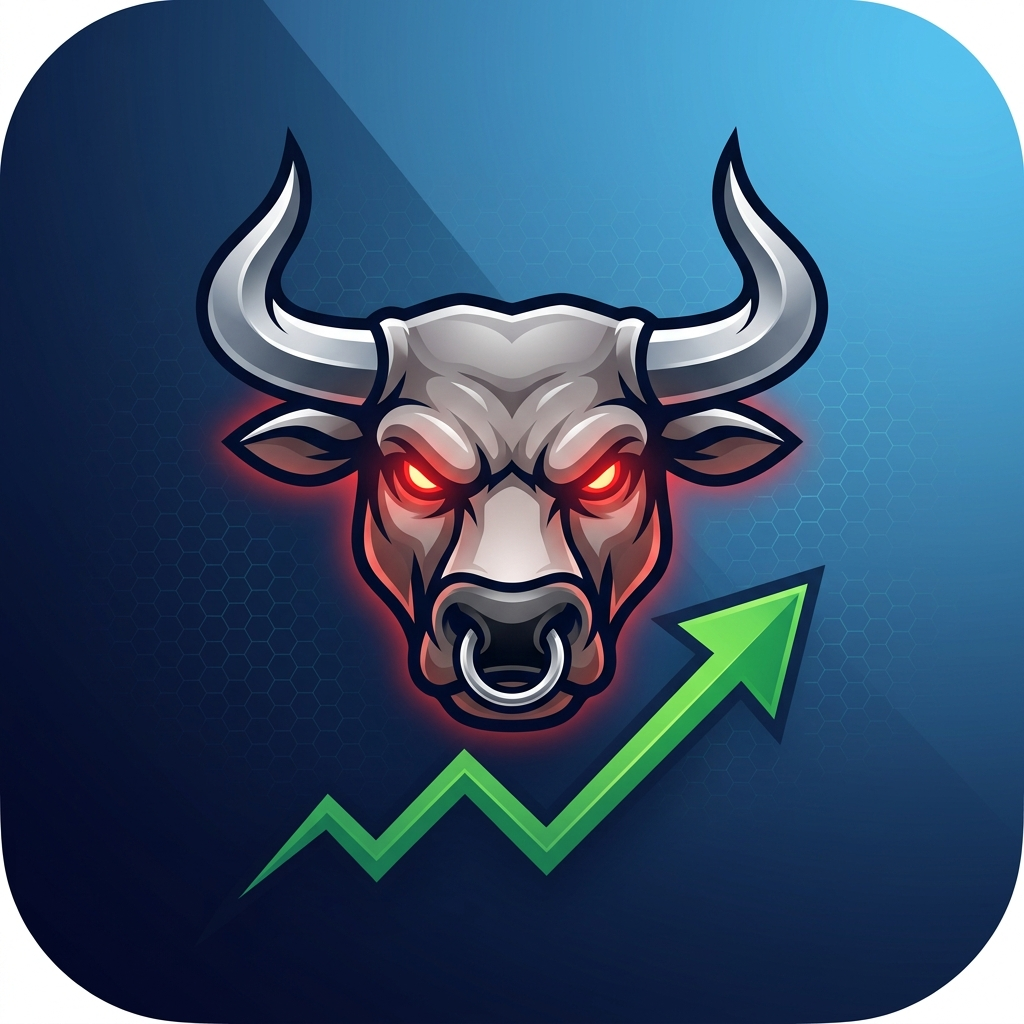
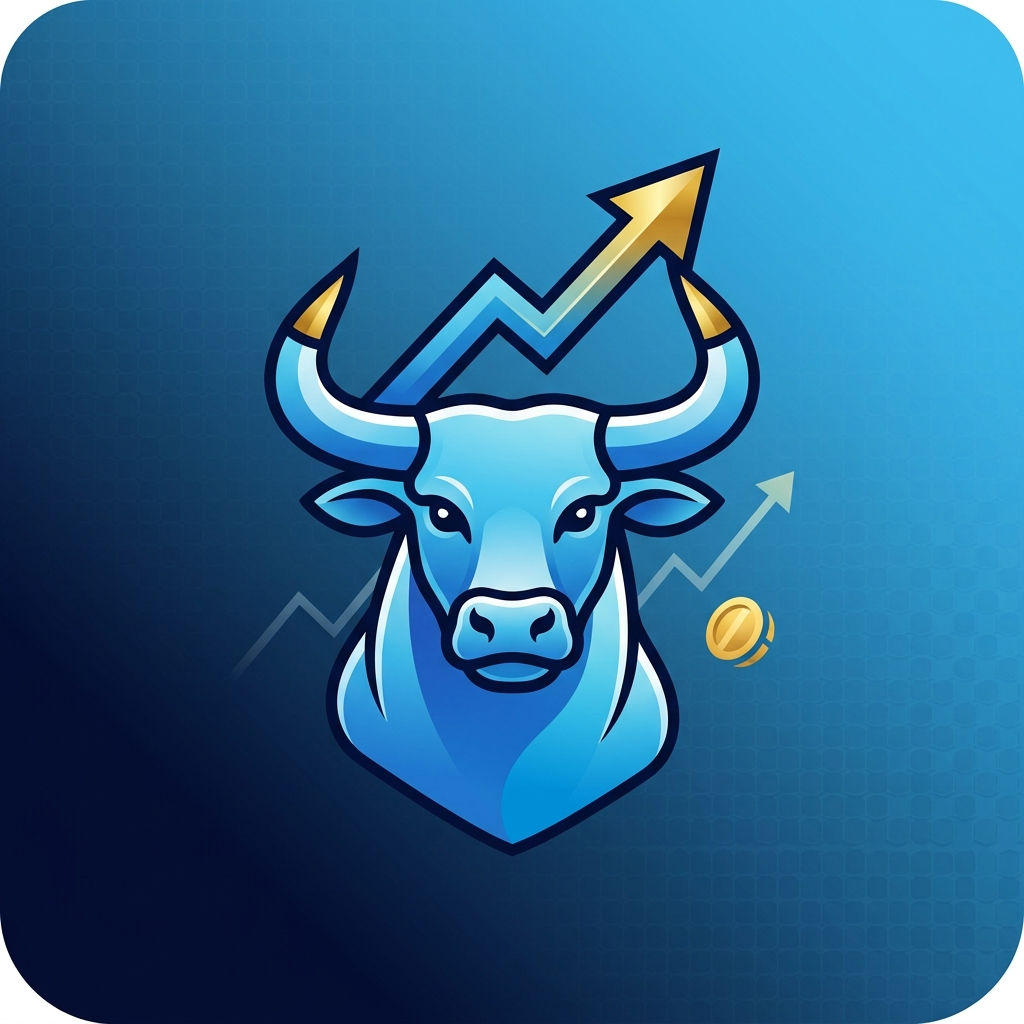
auto-commit for 58ef66fc-9dd8-4139-b0ed-5e4af7e5373b

diff --git a/frontend/src/components/BullLogo.tsx b/frontend/src/components/BullLogo.tsx
@@ -2,106 +2,118 @@ import React from "react";
 import { View, StyleSheet, Text } from "react-native";
 import { LinearGradient } from "expo-linear-gradient";
 import Svg, {
-  Path, Polyline, Circle, Defs, LinearGradient as SvgLinearGradient, Stop, RadialGradient, G, Filter, FeGaussianBlur, FeMerge, FeMergeNode,
+  Path, Polyline, Circle, Defs, LinearGradient as SvgLinearGradient, Stop, RadialGradient,
 } from "react-native-svg";
 import { Colors } from "@/src/theme/colors";
 
-// Aggressive stock-market bull with glowing red eyes
+/**
+ * Premium investment-bull logo for My Funding Bank.
+ * - Confident (not aggressive) bull head, head-up posture.
+ * - Curved horns whose left tip is replaced by an upward stock-chart line ending in a gold arrow.
+ * - Subtle gold horn tips and gold "M" monogram on the forehead — wealth + brand cues.
+ * - Sky blue / deep blue body gradient with white highlights, no red.
+ */
 export function BullLogo({
   size = 80,
   withWordmark = false,
   variant = "boxed",
 }: { size?: number; withWordmark?: boolean; variant?: "boxed" | "flat" }) {
   const inner = (
-    <Svg width={size * 0.8} height={size * 0.8} viewBox="0 0 120 120" fill="none">
+    <Svg width={size * 0.82} height={size * 0.82} viewBox="0 0 120 120" fill="none">
       <Defs>
-        <SvgLinearGradient id="bullFill" x1="0" y1="0" x2="1" y2="1">
-          <Stop offset="0%" stopColor="#F8FAFC" />
-          <Stop offset="55%" stopColor="#CBD5E1" />
-          <Stop offset="100%" stopColor="#64748B" />
+        <SvgLinearGradient id="bullBody" x1="0" y1="0" x2="1" y2="1">
+          <Stop offset="0%" stopColor="#7DD3FC" />
+          <Stop offset="60%" stopColor="#38BDF8" />
+          <Stop offset="100%" stopColor="#0EA5E9" />
         </SvgLinearGradient>
-        <SvgLinearGradient id="hornGradient" x1="0" y1="0" x2="1" y2="1">
+        <SvgLinearGradient id="hornBlue" x1="0" y1="0" x2="1" y2="1">
           <Stop offset="0%" stopColor="#FFFFFF" />
-          <Stop offset="100%" stopColor="#94A3B8" />
+          <Stop offset="100%" stopColor="#7DD3FC" />
         </SvgLinearGradient>
-        <RadialGradient id="eyeGlow" cx="50%" cy="50%" r="50%">
-          <Stop offset="0%" stopColor="#FF6B6B" stopOpacity="1" />
-          <Stop offset="50%" stopColor="#FF2D2D" stopOpacity="1" />
-          <Stop offset="100%" stopColor="#FF2D2D" stopOpacity="0" />
+        <SvgLinearGradient id="gold" x1="0" y1="0" x2="1" y2="1">
+          <Stop offset="0%" stopColor="#FCD34D" />
+          <Stop offset="100%" stopColor="#F59E0B" />
+        </SvgLinearGradient>
+        <RadialGradient id="shine" cx="35%" cy="30%" r="60%">
+          <Stop offset="0%" stopColor="#FFFFFF" stopOpacity="0.5" />
+          <Stop offset="100%" stopColor="#FFFFFF" stopOpacity="0" />
         </RadialGradient>
-        <SvgLinearGradient id="arrowGradient" x1="0" y1="1" x2="1" y2="0">
-          <Stop offset="0%" stopColor="#10B981" />
-          <Stop offset="100%" stopColor="#34D399" />
-        </SvgLinearGradient>
       </Defs>
 
-      {/* Subtle red glow halo behind eyes */}
-      <Circle cx="42" cy="58" r="11" fill="url(#eyeGlow)" opacity="0.6" />
-      <Circle cx="78" cy="58" r="11" fill="url(#eyeGlow)" opacity="0.6" />
-
-      {/* Sharp curved horns (aggressive, swept back & up) */}
+      {/* Curved blue horns (left & right) */}
       <Path
-        d="M14 30 C 8 18, 22 8, 32 14 C 38 18, 42 24, 44 32 C 38 28, 30 27, 22 30 C 18 31, 16 31, 14 30 Z"
-        fill="url(#hornGradient)"
+        d="M22 38 C 14 28, 18 16, 30 14 C 38 14, 44 22, 46 32 C 38 30, 28 32, 22 38 Z"
+        fill="url(#hornBlue)"
         stroke="#0F172A"
-        strokeWidth="1.5"
-      />
-      <Path
-        d="M106 30 C 112 18, 98 8, 88 14 C 82 18, 78 24, 76 32 C 82 28, 90 27, 98 30 C 102 31, 104 31, 106 30 Z"
-        fill="url(#hornGradient)"
-        stroke="#0F172A"
-        strokeWidth="1.5"
-      />
-
-      {/* Muscular bull head (forward-charging, angular) */}
-      <Path
-        d="M28 34
-           C 32 28, 40 22, 50 22
-           L 70 22
-           C 80 22, 88 28, 92 34
-           L 96 50
-           C 96 58, 92 64, 86 68
-           L 82 80
-           C 80 88, 72 94, 60 94
-           C 48 94, 40 88, 38 80
-           L 34 68
-           C 28 64, 24 58, 24 50 Z"
-        fill="url(#bullFill)"
-        stroke="#0F172A"
-        strokeWidth="2"
+        strokeWidth="1.4"
         strokeLinejoin="round"
       />
+      <Path
+        d="M98 38 C 106 28, 102 16, 90 14 C 82 14, 76 22, 74 32 C 82 30, 92 32, 98 38 Z"
+        fill="url(#hornBlue)"
+        stroke="#0F172A"
+        strokeWidth="1.4"
+        strokeLinejoin="round"
+      />
+      {/* Gold horn tips */}
+      <Circle cx="22" cy="36" r="3" fill="url(#gold)" stroke="#92400E" strokeWidth="0.6" />
+      <Circle cx="98" cy="36" r="3" fill="url(#gold)" stroke="#92400E" strokeWidth="0.6" />
 
-      {/* Forehead shadow / muscle definition */}
-      <Path d="M44 36 L 60 32 L 76 36 L 72 46 L 60 42 L 48 46 Z" fill="#0F172A" opacity="0.12" />
-      <Path d="M38 60 L 44 64 L 42 72 Z" fill="#0F172A" opacity="0.1" />
-      <Path d="M82 60 L 76 64 L 78 72 Z" fill="#0F172A" opacity="0.1" />
+      {/* Bull head — confident, smooth, head-up profile */}
+      <Path
+        d="M32 40
+           C 36 32, 44 26, 54 26
+           L 66 26
+           C 76 26, 84 32, 88 40
+           L 92 56
+           C 92 64, 88 70, 82 74
+           L 78 84
+           C 76 90, 70 94, 60 94
+           C 50 94, 44 90, 42 84
+           L 38 74
+           C 32 70, 28 64, 28 56 Z"
+        fill="url(#bullBody)"
+        stroke="#0F172A"
+        strokeWidth="1.8"
+        strokeLinejoin="round"
+      />
+      {/* Soft top highlight */}
+      <Path
+        d="M36 38 C 42 30, 52 28, 60 28 C 68 28, 78 30, 84 38 L 80 48 C 72 42, 64 41, 60 41 C 56 41, 48 42, 40 48 Z"
+        fill="url(#shine)"
+      />
 
-      {/* Glowing red eyes (intense, angular) */}
-      <Path d="M36 54 L 48 52 L 46 62 L 36 60 Z" fill="#0F172A" />
-      <Path d="M84 54 L 72 52 L 74 62 L 84 60 Z" fill="#0F172A" />
-      <Circle cx="42" cy="57" r="3.2" fill="#FF2D2D" />
-      <Circle cx="78" cy="57" r="3.2" fill="#FF2D2D" />
-      <Circle cx="41" cy="56" r="1" fill="#FFE5E5" />
-      <Circle cx="77" cy="56" r="1" fill="#FFE5E5" />
+      {/* Calm dark eyes (small, not glowing) */}
+      <Circle cx="46" cy="56" r="2.6" fill="#0F172A" />
+      <Circle cx="74" cy="56" r="2.6" fill="#0F172A" />
+      <Circle cx="46.8" cy="55.2" r="0.9" fill="#FFFFFF" />
+      <Circle cx="74.8" cy="55.2" r="0.9" fill="#FFFFFF" />
 
-      {/* Snout / nose ring */}
-      <Path d="M48 76 C 48 70, 72 70, 72 76 L 70 86 C 70 90, 64 92, 60 92 C 56 92, 50 90, 50 86 Z" fill="#0F172A" opacity="0.85" />
-      <Circle cx="60" cy="84" r="3" fill="none" stroke="#F8FAFC" strokeWidth="1.6" />
-      <Circle cx="54" cy="80" r="1.2" fill="#0F172A" />
-      <Circle cx="66" cy="80" r="1.2" fill="#0F172A" />
+      {/* Soft snout / nose ring */}
+      <Path d="M48 76 C 48 70, 72 70, 72 76 L 70 84 C 70 88, 64 90, 60 90 C 56 90, 50 88, 50 84 Z" fill="#0F172A" />
+      <Circle cx="60" cy="83" r="2.8" fill="none" stroke="#FCD34D" strokeWidth="1.4" />
 
-      {/* Rising stock chart arrow across chin */}
+      {/* Stock-market growth line rising from chest up & off to the right, with gold arrow tip */}
       <Polyline
-        points="22,104 36,96 48,100 60,88 72,92 84,80 98,84"
-        stroke="url(#arrowGradient)"
+        points="24,108 36,100 46,104 56,92 66,96 78,82 92,86"
+        stroke="#10B981"
         strokeWidth="3.2"
         fill="none"
         strokeLinecap="round"
         strokeLinejoin="round"
       />
-      {/* Arrowhead */}
-      <Path d="M98 84 L 106 78 L 104 88 Z" fill="#10B981" />
+      {/* Gold arrowhead at the end of the chart line */}
+      <Path d="M92 86 L 104 76 L 102 92 Z" fill="url(#gold)" stroke="#92400E" strokeWidth="0.8" strokeLinejoin="round" />
+
+      {/* Subtle gold "M" monogram on forehead */}
+      <Path
+        d="M52 36 L 54 46 L 60 40 L 66 46 L 68 36"
+        stroke="url(#gold)"
+        strokeWidth="2.2"
+        strokeLinecap="round"
+        strokeLinejoin="round"
+        fill="none"
+      />
     </Svg>
   );
 
@@ -127,9 +139,9 @@ export function BullLogo({
             height: size,
             borderRadius: size * 0.26,
             shadowColor: Colors.brand.primary,
-            shadowOpacity: 0.5,
-            shadowRadius: size * 0.2,
-            shadowOffset: { width: 0, height: size * 0.06 },
+            shadowOpacity: 0.45,
+            shadowRadius: size * 0.18,
+            shadowOffset: { width: 0, height: size * 0.05 },
             elevation: 8,
           },
         ]}

diff --git a/scripts/regen_investment_icon.py b/scripts/regen_investment_icon.py
@@ -1,0 +1,53 @@
+"""Regenerate the investment-brand app icon set (run after logo redesign)."""
+import asyncio, base64, os
+from pathlib import Path
+from dotenv import load_dotenv
+from emergentintegrations.llm.chat import LlmChat, UserMessage
+
+load_dotenv("/app/backend/.env")
+ASSETS = Path("/app/frontend/assets/images")
+
+
+async def gen(prompt: str, out_name: str):
+    api_key = os.environ["EMERGENT_LLM_KEY"]
+    chat = LlmChat(api_key=api_key, session_id=f"mfb-inv-{out_name}", system_message="You are a premium fintech brand designer.")
+    chat.with_model("gemini", "gemini-3.1-flash-image-preview").with_params(modalities=["image", "text"])
+    text, images = await chat.send_message_multimodal_response(UserMessage(text=prompt))
+    if not images:
+        print(f"[{out_name}] no image")
+        return
+    ASSETS.joinpath(out_name).write_bytes(base64.b64decode(images[0]["data"]))
+    print(f"[{out_name}] saved")
+
+
+async def main():
+    base = (
+        "A premium investment-platform brand mark — a professional, confident, head-up bull "
+        "(not aggressive, not cartoon). The bull's curved horns smoothly transform into an "
+        "upward-rising stock-market chart line ending in a metallic GOLD arrowhead. "
+        "Bull body in smooth sky-blue (#38BDF8) to deep-blue (#0EA5E9) gradient with "
+        "subtle white highlights and clean dark-navy outlines. Horn tips capped with "
+        "metallic gold (#FBBF24). A faint upward stock-chart line and a small gold coin "
+        "near the bull suggest wealth and portfolio growth. Calm dark eyes — NO red, "
+        "NO glowing eyes, NO blood, NO scary expression. "
+        "Style: modern luxury fintech, corporate banking, scalable vector, clean and minimal. "
+        "Composition is centered with safe margin. No text or letters anywhere in the artwork."
+    )
+    prompts = {
+        "icon.png": base + " 1024x1024 pixels, square canvas with slightly rounded corners, "
+                          "diagonal deep-navy (#0F172A) to sky-blue (#38BDF8) gradient background, "
+                          "subtle hexagonal financial-grid texture in the background, "
+                          "iOS / Android app icon ready.",
+        "adaptive-icon.png": base + " 1024x1024 pixels, transparent or solid-color background, the bull "
+                                    "subject occupies central 60% with generous transparent safe margin "
+                                    "around it (for Android adaptive icon mask). No background scenery.",
+        "splash-image.png": base + " 1284x2778 portrait splash image, the bull centered on the canvas "
+                                   "with deep-navy (#0F172A) fading to sky-blue (#38BDF8) background, "
+                                   "faint chart lines and hexagonal grid texture across the background.",
+    }
+    for name, p in prompts.items():
+        try: await gen(p, name)
+        except Exception as e: print(f"[{name}] ERROR: {e}")
+
+
+asyncio.run(main())
